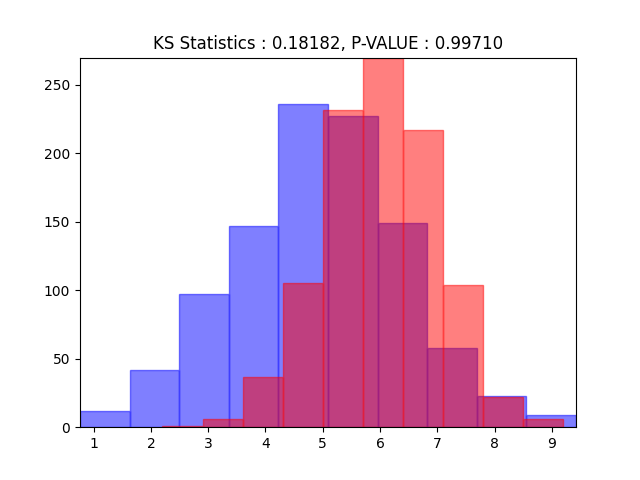
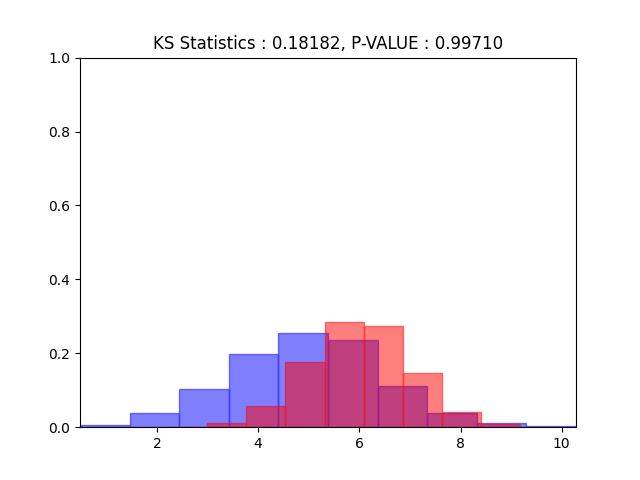
add normalize for visualization

diff --git a/src/ks/datadriftks.py b/src/ks/datadriftks.py
@@ -29,11 +29,12 @@ class DataDritDetectionKS(object):
             left=left,
             bins=bins,
         )
+        return hist_info
 
     def _get_hist(self, hist_info, **kwargs):
         left = hist_info["left"]
         right = hist_info["right"]
-        top = hist_info["top"]
+        top = hist_info["top"] / sum(hist_info["top"])
         bottom = hist_info["bottom"]
         XY = np.array([[left, left, right, right], [bottom, top, top, bottom]]).T
         barpath = path.Path.make_compound_path_from_polys(XY)
@@ -67,7 +68,7 @@ class DataDritDetectionKS(object):
         ax.add_patch(patch)
         hist_info = self.get_min_max_x_y(after_hist_info=after_hist_info, prev_hist_info=prev_hist_info)
         ax.set_xlim(hist_info["left"], hist_info["right"])
-        ax.set_ylim(hist_info["bottom"], hist_info["top"])
+        ax.set_ylim(hist_info["bottom"], 1.0)  # hist_info["top"]
         ks_test = self.run_ks_test(prev_hist_info, after_hist_info)
         ax.set_title(f"KS Statistics : {ks_test.statistic:.5f}, P-VALUE : {ks_test.pvalue:.5f}")
         plt.savefig(self._save_fig_path)

diff --git a/main.py b/main.py
@@ -16,7 +16,7 @@ if __name__ == "__main__":
     PickleHandler.save_pickle("./past_1_month_hist_info.pkl", prev_hist_info)
     del prev_hist_info
     ## current month
-    after_data = np.random.normal(loc=6, scale=1.0, size=1000)
+    after_data = np.random.normal(loc=6, scale=1.0, size=10000)
     after_hist_info = ks.make_hist_info(after_data, nbins=10)
 
     prev_hist_info = PickleHandler.load_pickle("./past_1_month_hist_info.pkl")
